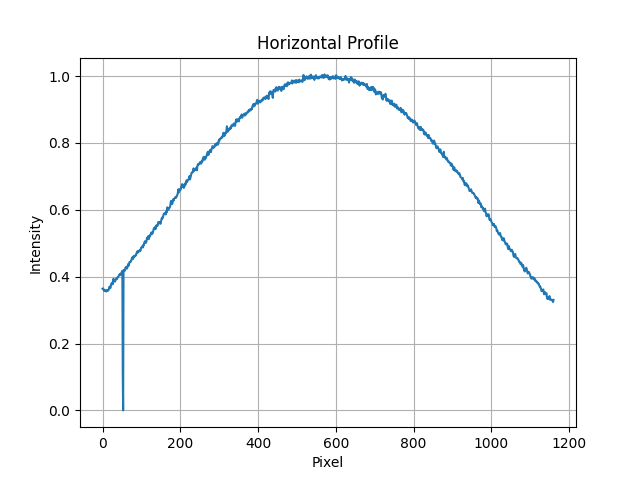
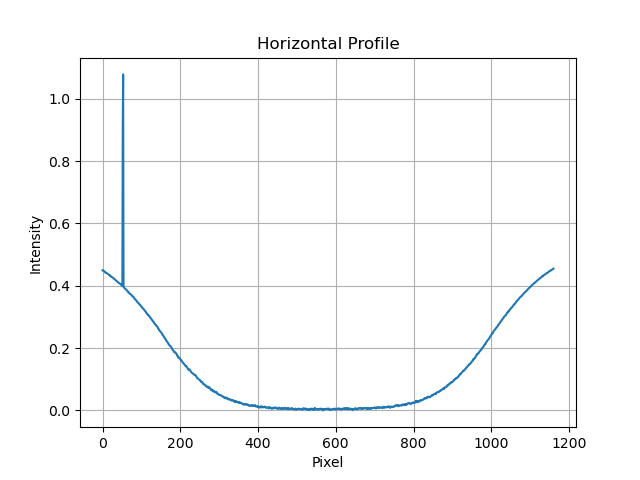
Post meeting

diff --git a/src/data_manipulation/ETL/image_extractor.py b/src/data_manipulation/ETL/image_extractor.py
@@ -29,19 +29,32 @@ class image_extractor:
         clinical = np.array(XIM(clinicalPath))
         dark = np.array(XIM(darkPath))
         flood = np.array(XIM(floodPath))
+        self.show_all_images( clinical, dark, flood)
         if is_test:
             logger.info("Clinical Path: %s", clinicalPath)
             logger.info("Dark Path: %s", darkPath)
             logger.info("Flood Path: %s", floodPath)
-            self.show_all_images(clinical, dark, flood)
+            #self.show_all_images(clinical, dark, flood)
         
         # Apply corrections
-        corrected_flood = flood - dark
+        #corrected_flood = flood - dark
+        corrected_flood = (flood - dark ) / dark
+        #Replce / dark with middle average of clinical 
+        #h, w = clinical.shape
+        #center_pixel = clinical[h//2, w//2]  # Simple center (what you probably want)
+        # h, w = clinical.shape
+        # if h % 2 == 0 and w % 2 == 0:
+        #     # Average of 4 center pixels
+        #     center_pixel = np.mean(clinical[h//2-1:h//2+1, w//2-1:w//2+1])
+        # else:
+        #     center_pixel = clinical[h//2, w//2]
+        # corrected_flood = (flood - dark ) / center_pixel
         corrected_clinical = clinical - dark
         
         # Avoid division by zero
         threshold = 1e-6
         corrected_flood[corrected_flood < threshold] = threshold
+        #corrected_clinical[corrected_flood < threshold] = threshold
         
         # Normalize
         #normalized = corrected_clinical / corrected_flood
@@ -166,6 +179,7 @@ class image_extractor:
         plt.imshow(flood, cmap='gray')
         plt.title("Flood")
         plt.axis('off')
+        #plt.show()
         # Note: Not closing figure here - it needs to remain open for later PNG conversion
         # The figure will be garbage collected when no longer referenced
 

diff --git a/src/data_manipulation/ETL/Test.py b/src/data_manipulation/ETL/Test.py
@@ -49,9 +49,9 @@ from src.data_manipulation.ETL.DataProcessor import DataProcessor
 CSV_PATH_6E = r"data/csv_data/NDS-WKS-SN6543-2025-09-18-08-06-01-0004-BeamCheckTemplate6e"
 CSV_PATH_9E = r"data/csv_data/NDS-WKS-SN6543-2025-09-18-08-06-01-0005-BeamCheckTemplate9e"
 CSV_PATH_12E = r"data/csv_data/NDS-WKS-SN6543-2025-09-19-07-41-49-0006-BeamCheckTemplate12e"
-#CSV_PATH_16E = r"data/csv_data/NDS-WKS-SN6543-2025-09-19-07-41-49-0007-BeamCheckTemplate16e"
+CSV_PATH_16E = r"data/csv_data/NDS-WKS-SN6543-2025-09-19-07-41-49-0007-BeamCheckTemplate16e"
 #CSV_PATH_16E = r"E:/MPC Data/Arlington/NDS-WKS-SN5512-2025-11-17-07-33-14-0007-BeamCheckTemplate16e"
-CSV_PATH_16E = r"E:/MPC Data/Weatherford/NDS-WKS-SN6543-2025-09-19-07-41-49-0007-BeamCheckTemplate16e"
+#CSV_PATH_16E = r"E:/MPC Data/Weatherford/NDS-WKS-SN6543-2025-09-19-07-41-49-0007-BeamCheckTemplate16e"
 CSV_PATH_2_5X = r"data/csv_data/NDS-WKS-SN6543-2015-09-18-08-06-01-0000-BeamCheckTemplate2.5x"
 CSV_PATH_10X = r"data/csv_data/Placeholder_10x"
 CSV_PATH_15X = r"data/csv_data/NDS-WKS-SN6543-2025-09-19-07-41-49-0003-BeamCheckTemplate15x"
